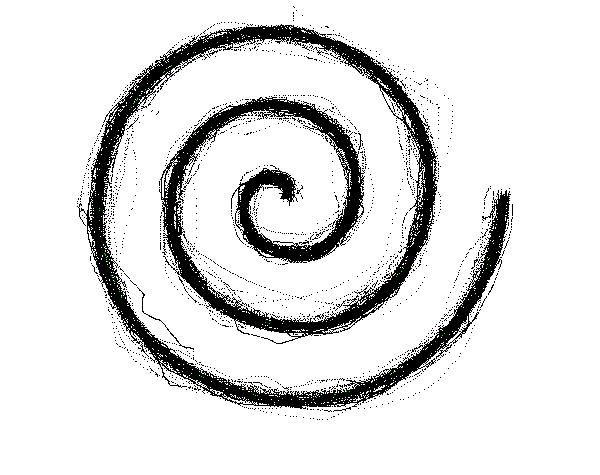
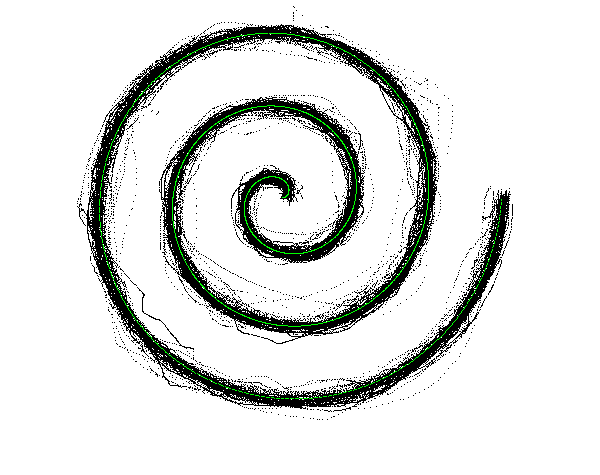
modified:   CNN_Transfer_Learning/drawings/__pycache__/drawing.cpython-310.pyc 	modified:   CNN_Transfer_Learning/drawings/drawing.py 	modified:   CNN_Transfer_Learning/drawings/render_all_in_folder_on_template.py 	modified:   CNN_Transfer_Learning/image_rendered/render_all_from_Anonimized_dataall_d

Changed region(s): [[0.51, 0.2358, 0.54, 0.2653]]

diff --git a/CNN_Transfer_Learning/drawings/drawing.py b/CNN_Transfer_Learning/drawings/drawing.py
@@ -7,19 +7,18 @@ import json
 from typing import List
 import png
 
-WIDTH, HEIGHT = 600, 475 #determined initially from website
-NON_DRAWING_PIXEL = [255,255,255]
-DRAWING_PIXEL = [255,0,0]
-START_POINT_X = 282
-START_POINT_Y = 197 #197.39999961853027
-END_POINT_X = 282 + (355 - 282) * 3
-END_POINT_Y = 197 #197.39999961853027
-
-BACKGROUND = NON_DRAWING_PIXEL * WIDTH * HEIGHT
-
 TEMPLATE_PATH = "./image_rendered/reference_spiral.png"
 
 class Drawing:
+    WIDTH, HEIGHT = 600, 475 #determined initially from website
+    NON_DRAWING_PIXEL = [255,255,255]
+    DRAWING_PIXEL = [255,0,0]
+    START_POINT_X = 282
+    START_POINT_Y = 197 #197.39999961853027
+    END_POINT_X = 282 + (355 - 282) * 3
+    END_POINT_Y = 197 #197.39999961853027
+
+    BACKGROUND = NON_DRAWING_PIXEL * WIDTH * HEIGHT
 
     def __init__(self, file_path : str = None):
         """
@@ -119,17 +118,17 @@ class Drawing:
         :param List[int] pixel: A pixel with three integers for RGB.
         """
 
-        if (len(drawing) >= (y * WIDTH * 3 + x * 3 + 2)):
+        if (len(drawing) >= (y * Drawing.WIDTH * 3 + x * 3 + 2)):
             if ((r==None or g==None or b==None) and pixel==None):
                 return
             elif (r==None or g==None or b==None):
-                drawing[y * WIDTH * 3 + x * 3 + 0] = pixel[0]
-                drawing[y * WIDTH * 3 + x * 3 + 1] = pixel[1]
-                drawing[y * WIDTH * 3 + x * 3 + 2] = pixel[2]
+                drawing[y * Drawing.WIDTH * 3 + x * 3 + 0] = pixel[0]
+                drawing[y * Drawing.WIDTH * 3 + x * 3 + 1] = pixel[1]
+                drawing[y * Drawing.WIDTH * 3 + x * 3 + 2] = pixel[2]
             else: # pixel==None
-                drawing[y * WIDTH * 3 + x * 3 + 0] = r
-                drawing[y * WIDTH * 3 + x * 3 + 1] = g
-                drawing[y * WIDTH * 3 + x * 3 + 2] = b
+                drawing[y * Drawing.WIDTH * 3 + x * 3 + 0] = r
+                drawing[y * Drawing.WIDTH * 3 + x * 3 + 1] = g
+                drawing[y * Drawing.WIDTH * 3 + x * 3 + 2] = b
 
     # Merges given array with background array and returns it 
     @staticmethod
@@ -147,7 +146,7 @@ class Drawing:
         elif background_array: #if given background PNG as RGB arrays
             background = background_array
         else:
-            background = copy.deepcopy(BACKGROUND)
+            background = copy.deepcopy(Drawing.BACKGROUND)
         
         # print("_merge_array_on_background_2: ", background)
 
@@ -167,7 +166,9 @@ class Drawing:
             
             # print("_render_array_to_png: ", pixelArr)
             
-            writer = png.Writer(width=WIDTH, height=HEIGHT, greyscale=False)
+            writer = png.Writer(
+                width=Drawing.WIDTH, height=Drawing.HEIGHT, greyscale=False
+                )
             with open(out_path, 'bw') as goal_file: 
                 writer.write_array(goal_file, pixelArr)
             #print("RENDER SUCCESSFUL!")
@@ -206,7 +207,7 @@ class Drawing:
         colors=[[255,0,0],[0,255,0],[0,0,255]], on_template=False):
         
         cycles = Drawing.divide_to_cycles(self)
-        png_array = copy.deepcopy(BACKGROUND)
+        png_array = copy.deepcopy(Drawing.BACKGROUND)
 
         if on_template: # render image on template image found at TEMPLATE_PATH
             png_array = Drawing._merge_array_on_background([], background_path=TEMPLATE_PATH)
@@ -246,7 +247,7 @@ class Drawing:
         for inp in [drawing_r, drawing_g, drawing_b, back_r, back_g, back_b]:
             check_if_valid_rgb_val(inp)
         # make the background
-        back = [back_r, back_g, back_b] * WIDTH * HEIGHT
+        back = [back_r, back_g, back_b] * Drawing.WIDTH * Drawing.HEIGHT
         # change colors of that background for the drawing pixels in self.drawing
         for pixel in self.drawing:
             x, y = int(pixel["x"]), int(pixel["y"])

diff --git a/CNN_Transfer_Learning/drawings/render_all_in_folder_on_template.py b/CNN_Transfer_Learning/drawings/render_all_in_folder_on_template.py
@@ -16,7 +16,8 @@ def render_all_in_folder_on_template(
         drawing_color : List[int] = [0, 0, 0],
         template_color : List[int] = [255, 0, 0],
         background_color : List[int] = [255, 255, 255],
-        render_dominant : bool = None
+        render_dominant : bool = None,
+        template_on_top : bool = False
         ):
     """
     Renders all drawings stored as json data under the given directory with the color
@@ -35,17 +36,23 @@ def render_all_in_folder_on_template(
     Defaults to [255, 255, 255].
     :param bool render_dominant: Whether to render only dominant hand images or not.
     If False, render only non-dominant images. If None, render all ignoring handedness.
+    :param bool template_on_top: Whether to render the template on top of all images.
+    If True, the template is rendered on top of all images. If False, the template is 
+    rendered below all images.
     """
     # get the template and turn it into an array of pixel such that we can merge them 
     # using _merge_array_on_background from Drawing.
     template = Drawing(TEMPLATE_JSON_PATH)
-    template_pixel_array = template.get_array_of_pixels(
-        drawing_r=template_color[0], drawing_g=template_color[1], drawing_b=template_color[2],
-         back_r=background_color[0],  back_g=background_color[1],  back_b=background_color[2]
-        )
     
-    # print(template_pixel_array)
-
+    # render the template either as background or at the end
+    if template_on_top:
+        image_array = background_color*Drawing.WIDTH*Drawing.HEIGHT 
+    else: 
+        image_array = template.get_array_of_pixels(
+            drawing_r=template_color[0], drawing_g=template_color[1], drawing_b=template_color[2],
+             back_r=background_color[0],  back_g=background_color[1],  back_b=background_color[2]
+            )
+    
     # for every drawing
     for file in os.listdir(src_dir):
         # if file is not a json one, ignore
@@ -62,25 +69,34 @@ def render_all_in_folder_on_template(
         else: # otherwise, only render non-dominants
             if drawing.dominant_hand_is_right == drawing.drawn_hand_is_right: continue
 
-        template_pixel_array = Drawing._merge_array_on_background(
+        image_array = Drawing._merge_array_on_background(
             arr=drawing.drawing, 
             r=drawing_color[0], g=drawing_color[1], b=drawing_color[2], 
-            background_array=template_pixel_array
+            background_array=image_array
+            )
+
+    # render the template at the top if template_on_top is True
+    if template_on_top:
+        image_array = Drawing._merge_array_on_background(
+            arr=template.drawing, 
+            r=template_color[0], g=template_color[1], b=template_color[2], 
+            background_array=image_array
             )
         
     # finally, render obtained array into png
     handedness = "dom" if render_dominant else ("all" if render_dominant == None else "nondom")
     file_name = f"render_all_from_{src_dir.replace('/', '')}_" + handedness + ".png"
     Drawing._render_array_to_png(
-        pixelArr=template_pixel_array, 
+        pixelArr=image_array, 
         out_path=save_dir + "/" + file_name
         )
     
-    return template_pixel_array
+    return image_array
 
 if __name__ == "__main__":
     render_all_in_folder_on_template(
         src_dir="Anonimized_data/all_data/useful", save_dir="CNN_Transfer_Learning/image_rendered", 
-        drawing_color=[0,0,0], template_color=[0,255,0], background_color=[255,255,255],
-        render_dominant=None
+        drawing_color=[0,0,0], template_color=[0,0,255], background_color=[255,255,255],
+        render_dominant=False,
+        template_on_top=True
         )
